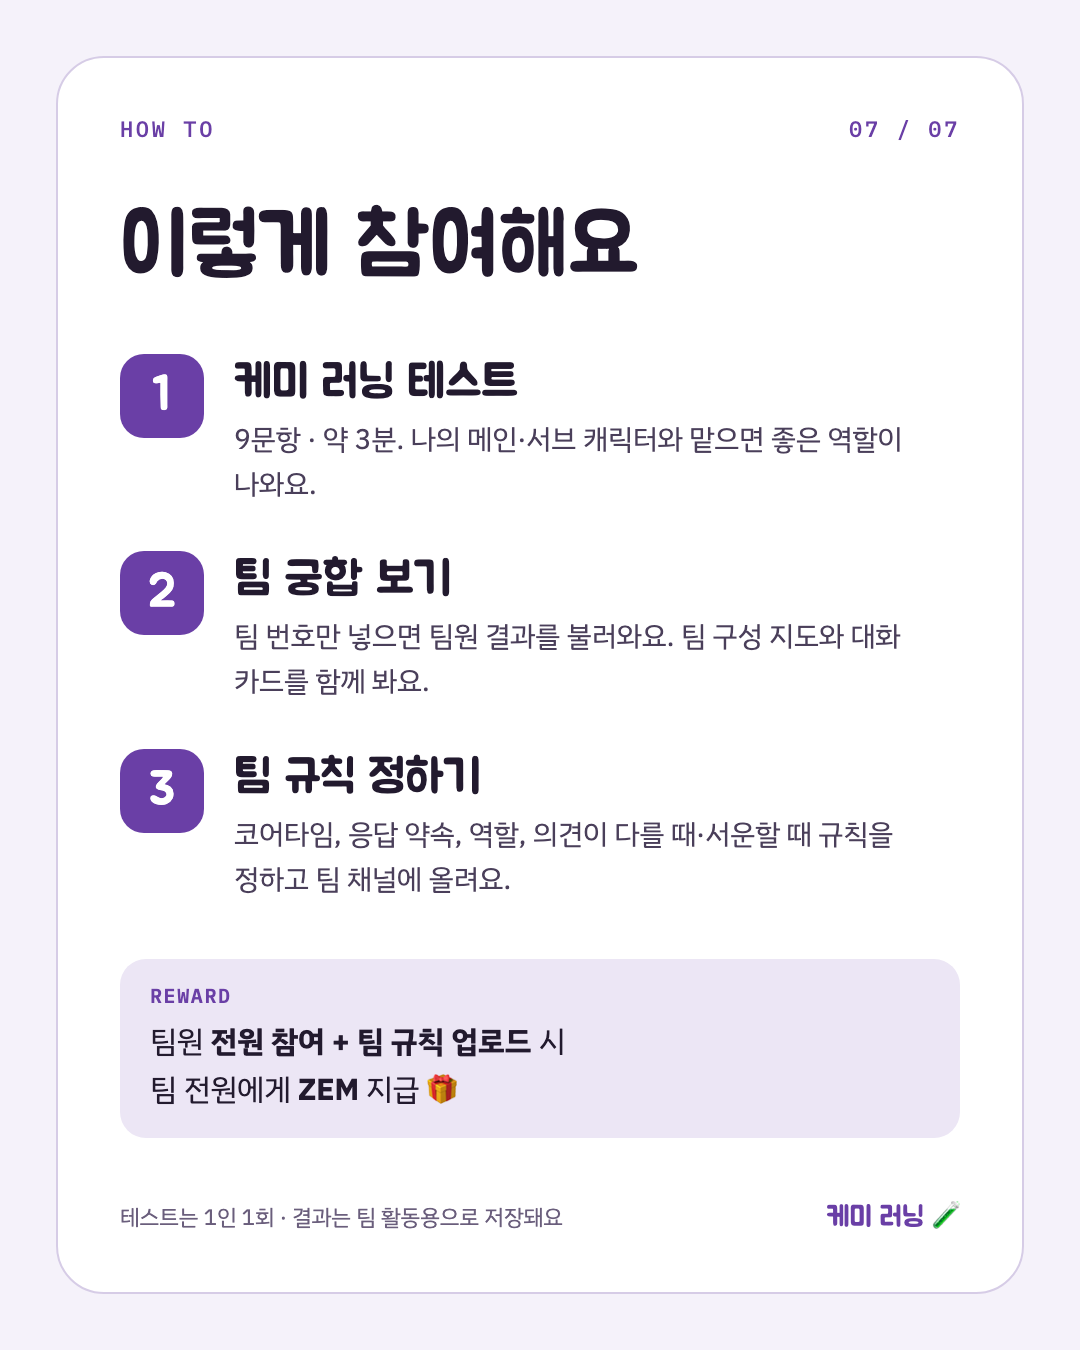
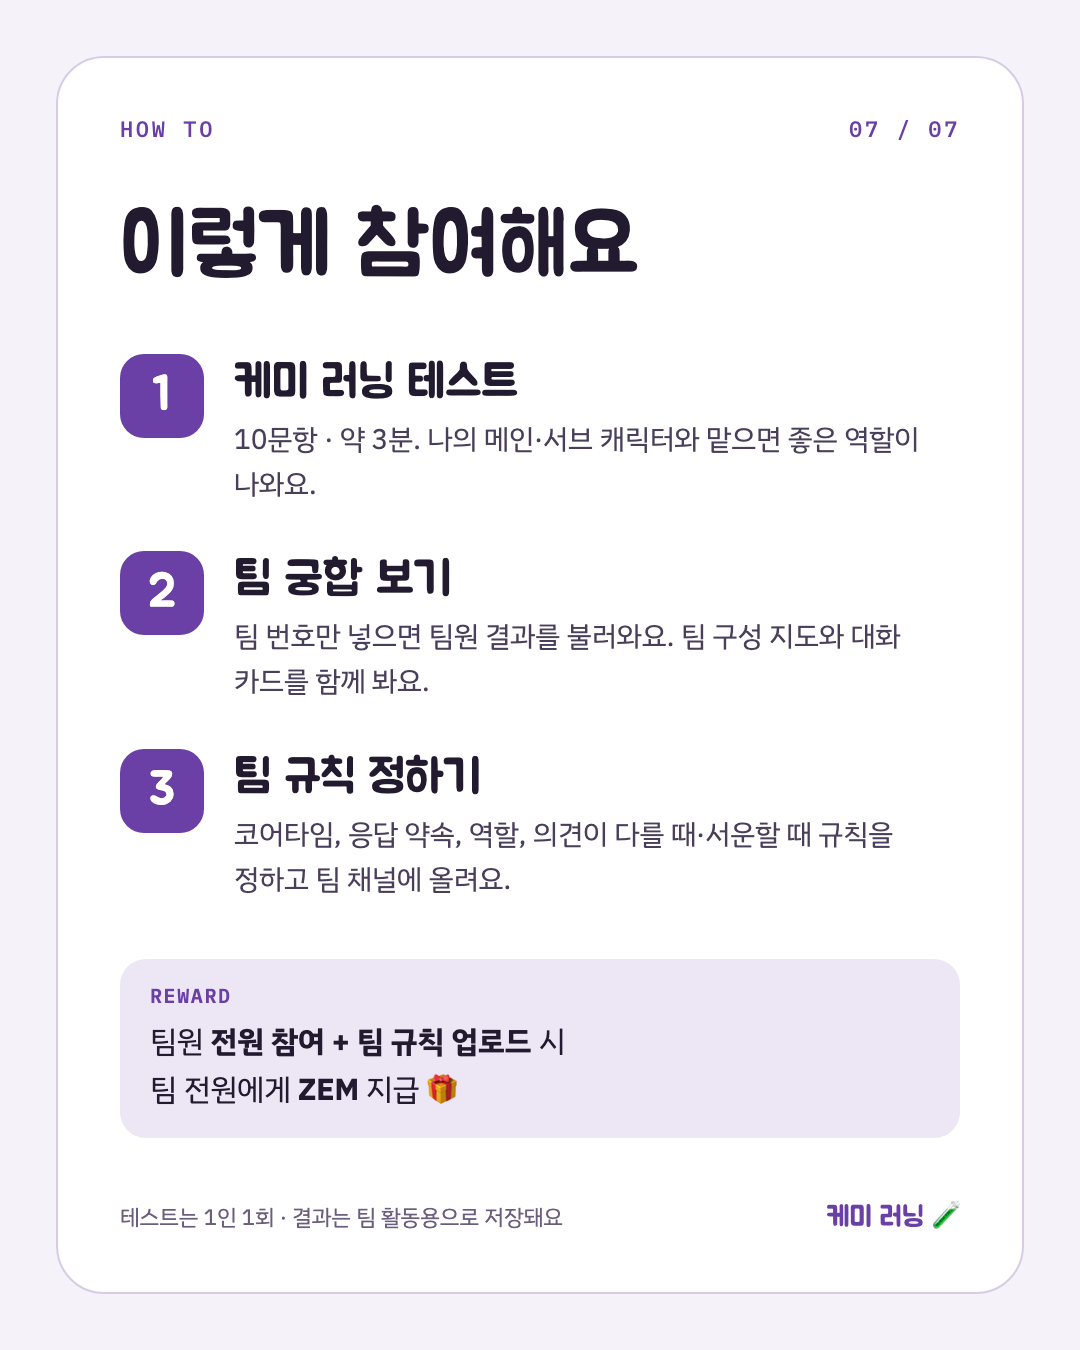
케미 러닝: AI 프로젝트 문항(새 오픈소스 LLM) 추가해 10문항

Changed region(s): [[0.2139, 0.3111, 0.8556, 0.3422]]

diff --git a/index.html b/index.html
@@ -292,7 +292,7 @@
     <div class="intro-top">
       <span class="eyebrow">Codeit Sprint · AI Engineer</span>
       <h1>케미 러닝 <span style="font-size:.5em;color:var(--fg-sub);font-weight:400;font-family:var(--font-mono)">Chemi-Learning</span></h1>
-      <p class="intro-sub">🧪 우리 팀 케미, 아직 학습 전이에요!<br>질문 9개로 나의 케미 캐릭터를 찾고, 팀원들과 궁합을 맞춰보세요.</p>
+      <p class="intro-sub">🧪 우리 팀 케미, 아직 학습 전이에요!<br>질문 10개로 나의 케미 캐릭터를 찾고, 팀원들과 궁합을 맞춰보세요.</p>
       <div class="lineup" aria-hidden="true">
         <span class="seal e0">💡</span><span class="seal e1">⚡</span><span class="seal e2">🫧</span><span class="seal e3">✅</span><span class="seal e4">🔍</span>
       </div>
@@ -324,7 +324,7 @@
   <!-- QUIZ -->
   <section id="sc-quiz" class="screen" hidden>
     <div class="prog">
-      <div class="prog-meta"><span id="prog-label">EPOCH · 케미 학습 중</span><span id="prog-count">1 / 9</span></div>
+      <div class="prog-meta"><span id="prog-label">EPOCH · 케미 학습 중</span><span id="prog-count">1 / 10</span></div>
       <div class="track"><div class="fill" id="prog-fill" style="width:0%"></div></div>
     </div>
     <span class="q-cat" id="q-cat"></span>
@@ -622,6 +622,13 @@ const QS = [
     { t: '팀장·매니저에게 상황을 공유하고 일정과 역할을 다시 나눈다', tp: 3 },
     { t: '그 몫을 다른 방법으로 채울 아이디어를 낸다', tp: 0 },
     { t: '“괜찮으세요? 편할 때 연락 주세요” 부담 없게 메시지를 남긴다', tp: 2 }
+  ]},
+  { kind: 'el', cat: 'AI 프로젝트', q: '우리 프로젝트에 딱 맞을 것 같은 새 오픈소스 LLM이 공개됐다!', opts: [
+    { t: '바로 우리 데이터로 붙여서 데모부터 돌려본다', tp: 0 },
+    { t: '모델 카드, 벤치마크, 라이선스부터 꼼꼼히 읽어본다', tp: 4 },
+    { t: '지금 모델과 같은 평가 지표로 비교할 실험 계획을 세운다', tp: 3 },
+    { t: '팀 채널에 링크를 올리고 “이거 같이 써봐요!” 분위기를 띄운다', tp: 1 },
+    { t: '바꾸면 팀원들 작업에 부담이 없을지 먼저 물어본다', tp: 2 }
   ]},
   { kind: 'el', cat: '의견 조율', q: '갑자기 프로젝트 진행 중 문제점을 발견했다! 해결 방향은 어떻게 정할까?', opts: [
     { t: '원인부터 분석해서 근거를 들고 이야기한다', tp: 4 },
